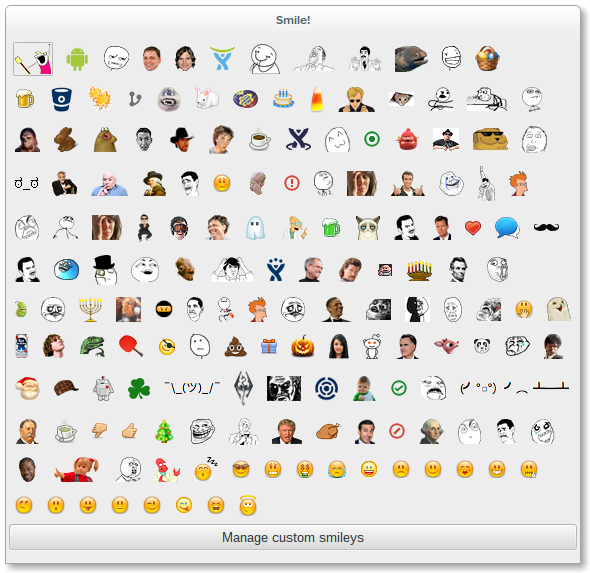
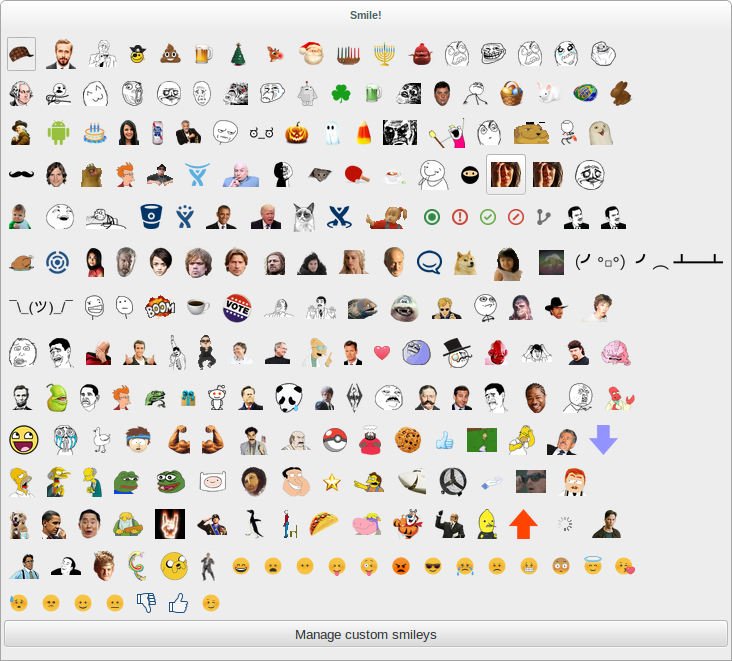
Fetch the emoticons from the API
henrik/hipchat-emoticons has been deprecated so instead of depending on
it, fetch the emoticons from the API.

diff --git a/lib/emoticon_list.rb b/lib/emoticon_list.rb
@@ -1,0 +1,56 @@
+require 'open-uri'
+require 'fileutils'
+require 'json'
+require_relative 'emoticon'
+
+module HipChat
+  class EmoticonList < Array
+    def find(shortcut)
+      self.select { |emoticon| emoticon.shortcuts.include? shortcut }.first
+    end
+  end
+
+  class FullEmoticonList < EmoticonList
+    def initialize
+      super APIEmoticonList.new + NonAPIEmoticonList.new
+    end
+  end
+
+  class APIEmoticonList < EmoticonList
+    begin
+      API_TOKEN = File.read(File.expand_path "~/.hipchat-token").strip
+    rescue Errno::ENOENT
+      raise("Get your API token from https://auctionet.hipchat.com/account/api and put it in ~/.hipchat-token")
+    end
+
+    URL = "https://api.hipchat.com/v2/emoticon?max-results=1000&auth_token=#{API_TOKEN}"
+
+    def initialize
+      json = open(URL).read
+      items = JSON.parse(json)['items']
+
+      emoticons = items.group_by { |item| item['url'] }.map do |url, item_group|
+        Emoticon.new url: url, shortcuts: item_group.map { |item| "(#{item['shortcut']})" }
+      end
+
+      super emoticons
+    end
+
+  end
+
+  class NonAPIEmoticonList < EmoticonList
+    FILE = "non-api.json"
+    BASE_URL = "https://dujrsrsgsd3nh.cloudfront.net/img/emoticons"
+
+    def initialize
+      json = open(FILE).read
+      items = JSON.parse(json).values
+
+      emoticons = items.group_by { |item| item['file'] }.map do |file, item_group|
+        Emoticon.new url: File.join(BASE_URL, file), shortcuts: item_group.map { |item| item['shortcut'] }
+      end
+
+      super emoticons
+    end
+  end
+end

diff --git a/lib/manifest.rb b/lib/manifest.rb
@@ -2,22 +2,24 @@ module HipChat
   class Manifest
     attr_accessor :name, :description, :icon, :author, :emoticons
 
-    def initialize(options = {})
-      @name, @description, @icon, @author = options.values_at :name, :description, :icon, :author
-      @emoticons = options[:emoticons] || []
+    def initialize(emoticons)
+      @name = 'HipChat'
+      @description = 'A HipChat smiley theme'
+      @author = 'Petko Bordjukov'
+      @emoticons = emoticons
     end
 
     def to_s
       output = ''
       output << "Name=#{@name}\n" if @name
       output << "Description=#{@description}\n" if @description
-      output << "Icon=#{@icon}\n" if @icon
+      output << "Icon=#{@emoticons.find('(hipchat)').file_name}\n" if @emoticons.find('(hipchat)')
       output << "Author=#{@author}\n" if @author
 
       output << "\n[XMPP]\n"
 
       @emoticons.each do |emoticon|
-        output << [emoticon.image, emoticon.shortcuts].flatten.join(' ')
+        output << [emoticon.file_name, emoticon.shortcuts].flatten.join(' ')
         output << "\n"
       end
       output

diff --git a/lib/helpers.rb b/lib/helpers.rb
@@ -3,16 +3,6 @@ require 'json'
 module HipChat
   module Helpers
     module_function
-    def load_emoticon_file(file)
-      JSON.load File.read file
-    end
-
-    def emoticons_from(emoticon_file)
-      emoticon_list = load_emoticon_file(emoticon_file).sort_by { |emoticon| emoticon["shortcut"] }
-      emoticon_list.group_by { |entry| entry['image'] }.map do |image, emotions|
-        Emoticon.new image: image, shortcuts: emotions.map { |emoticon| emoticon['shortcut'] }
-      end
-    end
 
     def open_file(file, &block)
       FileUtils.mkdir_p File.dirname File.join 'HipChat', file

diff --git a/lib/emoticon.rb b/lib/emoticon.rb
@@ -1,9 +1,22 @@
+require 'uri'
+require_relative 'helpers'
+
 module HipChat
   class Emoticon
-    attr_accessor :image, :shortcuts
+    attr_accessor :url, :shortcuts
 
     def initialize(options = {})
-      @image, @shortcuts = options.values_at :image, :shortcuts
+      @url, @shortcuts = options.values_at :url, :shortcuts
+    end
+
+    def file_name
+      File.basename URI.parse(@url).path
+    end
+
+    def fetch!
+      open(@url) do |source|
+        HipChat::Helpers.open_file(file_name) { |f| f.write source.read }
+      end
     end
   end
 end

diff --git a/README.md b/README.md
@@ -1,16 +1,16 @@
 HipChat Smiley Theme for Pidgin
 ===============================
 
-Just a small project that generates a HipChat smiley theme for Pidgin. It relies
-heavily on the emoticon list provided by
-[henrik/hipchat-emoticons](https://github.com/henrik/hipchat-emoticons).
+Just a small project that generates a HipChat smiley theme for Pidgin. It
+fetches the list of emoticons from HipChat's API, downloads the images and
+packages them.
 
 ![Screenshot](https://bytebucket.org/ignisf/hipchat-pidgin-theme/raw/de636e0db581bfdddbfb9ed879f08d95b49805b3/screenshot.png)
 
 Usage
 -----
 
-Just run `rake` and drag and drop the `HipChat.tar.gz` file on the "Smiley
+Just run `rake` and drag and drop the `HipChat-<DateTime>.tar.gz` file on the "Smiley
 Theme" drop-down in Tools -> Preferences -> Themes.
 
 Downloads
